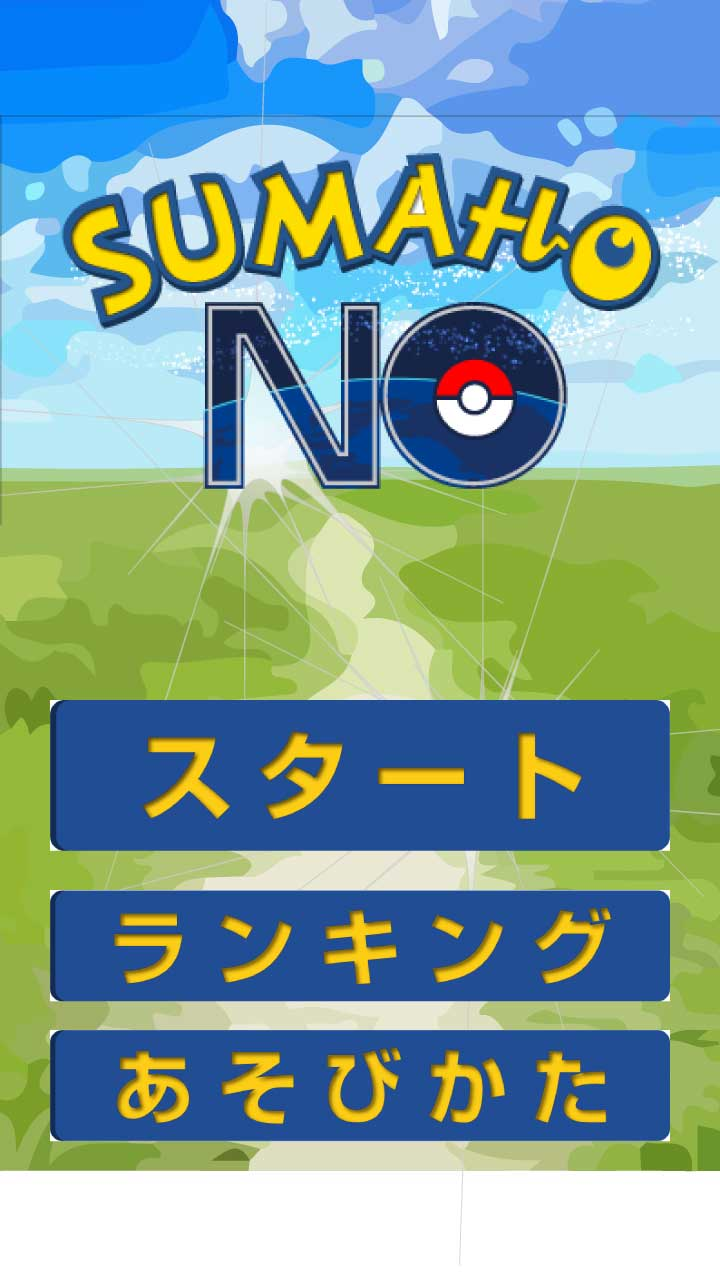
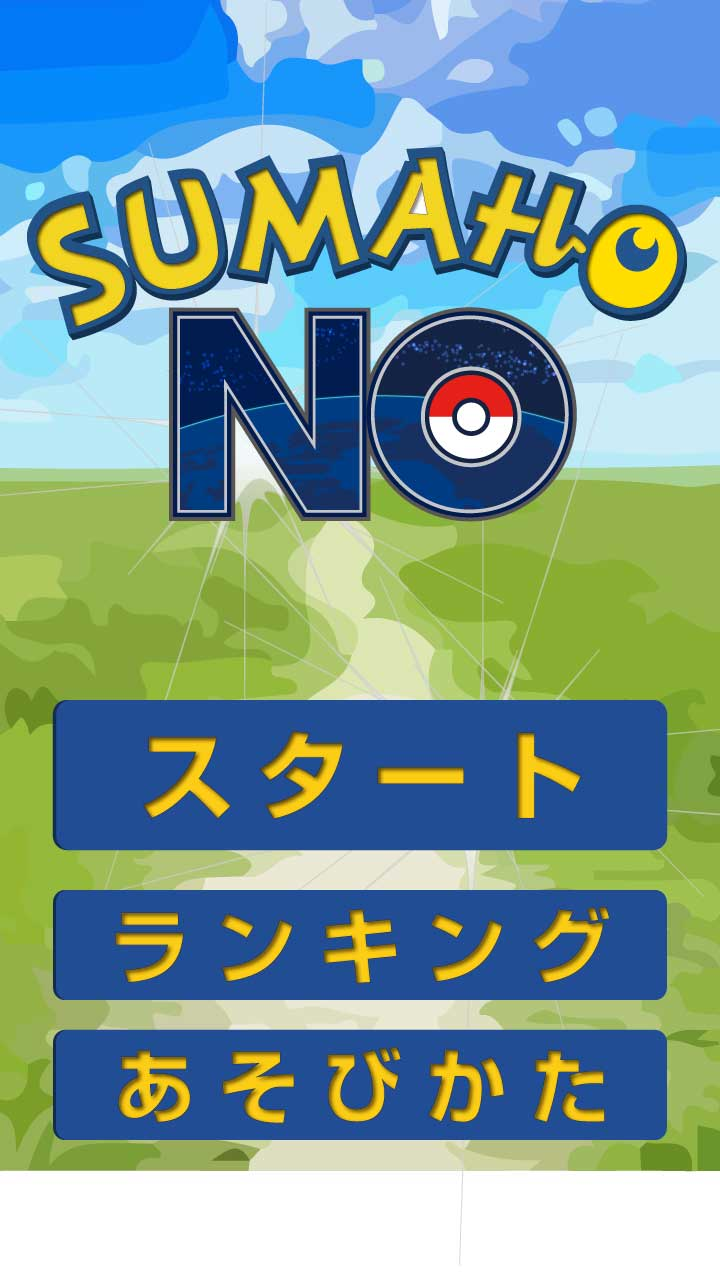
ミュート設定を削除（広告動画をミュートにできないため）

diff --git a/app/src/main/java/com/hajikoma/nowalkingphone/screen/TitleScreen.java b/app/src/main/java/com/hajikoma/nowalkingphone/screen/TitleScreen.java
@@ -37,8 +37,6 @@ public class TitleScreen extends Screen {
     private Rect rankingDstArea = new Rect(80, 890, 640, 890 + 100);
     /** 遊びかたボタン描画先 */
     private Rect tutorialDstArea = new Rect(80, 1030, 640, 1030 + 100);
-    /** ミュートボタン描画先 */
-    private Rect muteDstArea = new Rect(80, 1190, 80 + 80, 1190 + 80);
     /** バイブボタン描画先 */
     private Rect vibDstArea = new Rect(560, 1190, 560 + 80, 1190 + 80);
 
@@ -103,14 +101,6 @@ public class TitleScreen extends Screen {
                     playSound(Assets.decision15, 1.0f);
                     game.setScreen(new TutorialScreen(game));
                     break;
-                } else if (isBounds(ges, muteDstArea)) {
-                    if (Assets.ud.isMute()) {
-                        Assets.ud.unMute();
-                        break;
-                    } else {
-                        Assets.ud.mute();
-                        break;
-                    }
                 } else if (isBounds(ges, vibDstArea)) {
                     if (Assets.ud.isVibe()) {
                         Assets.ud.vibeOff();
@@ -148,11 +138,6 @@ public class TitleScreen extends Screen {
         }
 
         // 共通部分の描画
-        if (Assets.ud.isMute()) {
-            gra.drawPixmap(icon_settings, muteDstArea, 200, 0, 200, 200);
-        } else {
-            gra.drawPixmap(icon_settings, muteDstArea, 0, 0, 200, 200);
-        }
         if (Assets.ud.isVibe()) {
             gra.drawPixmap(icon_settings, vibDstArea, 0, 200, 200, 200);
         } else {
